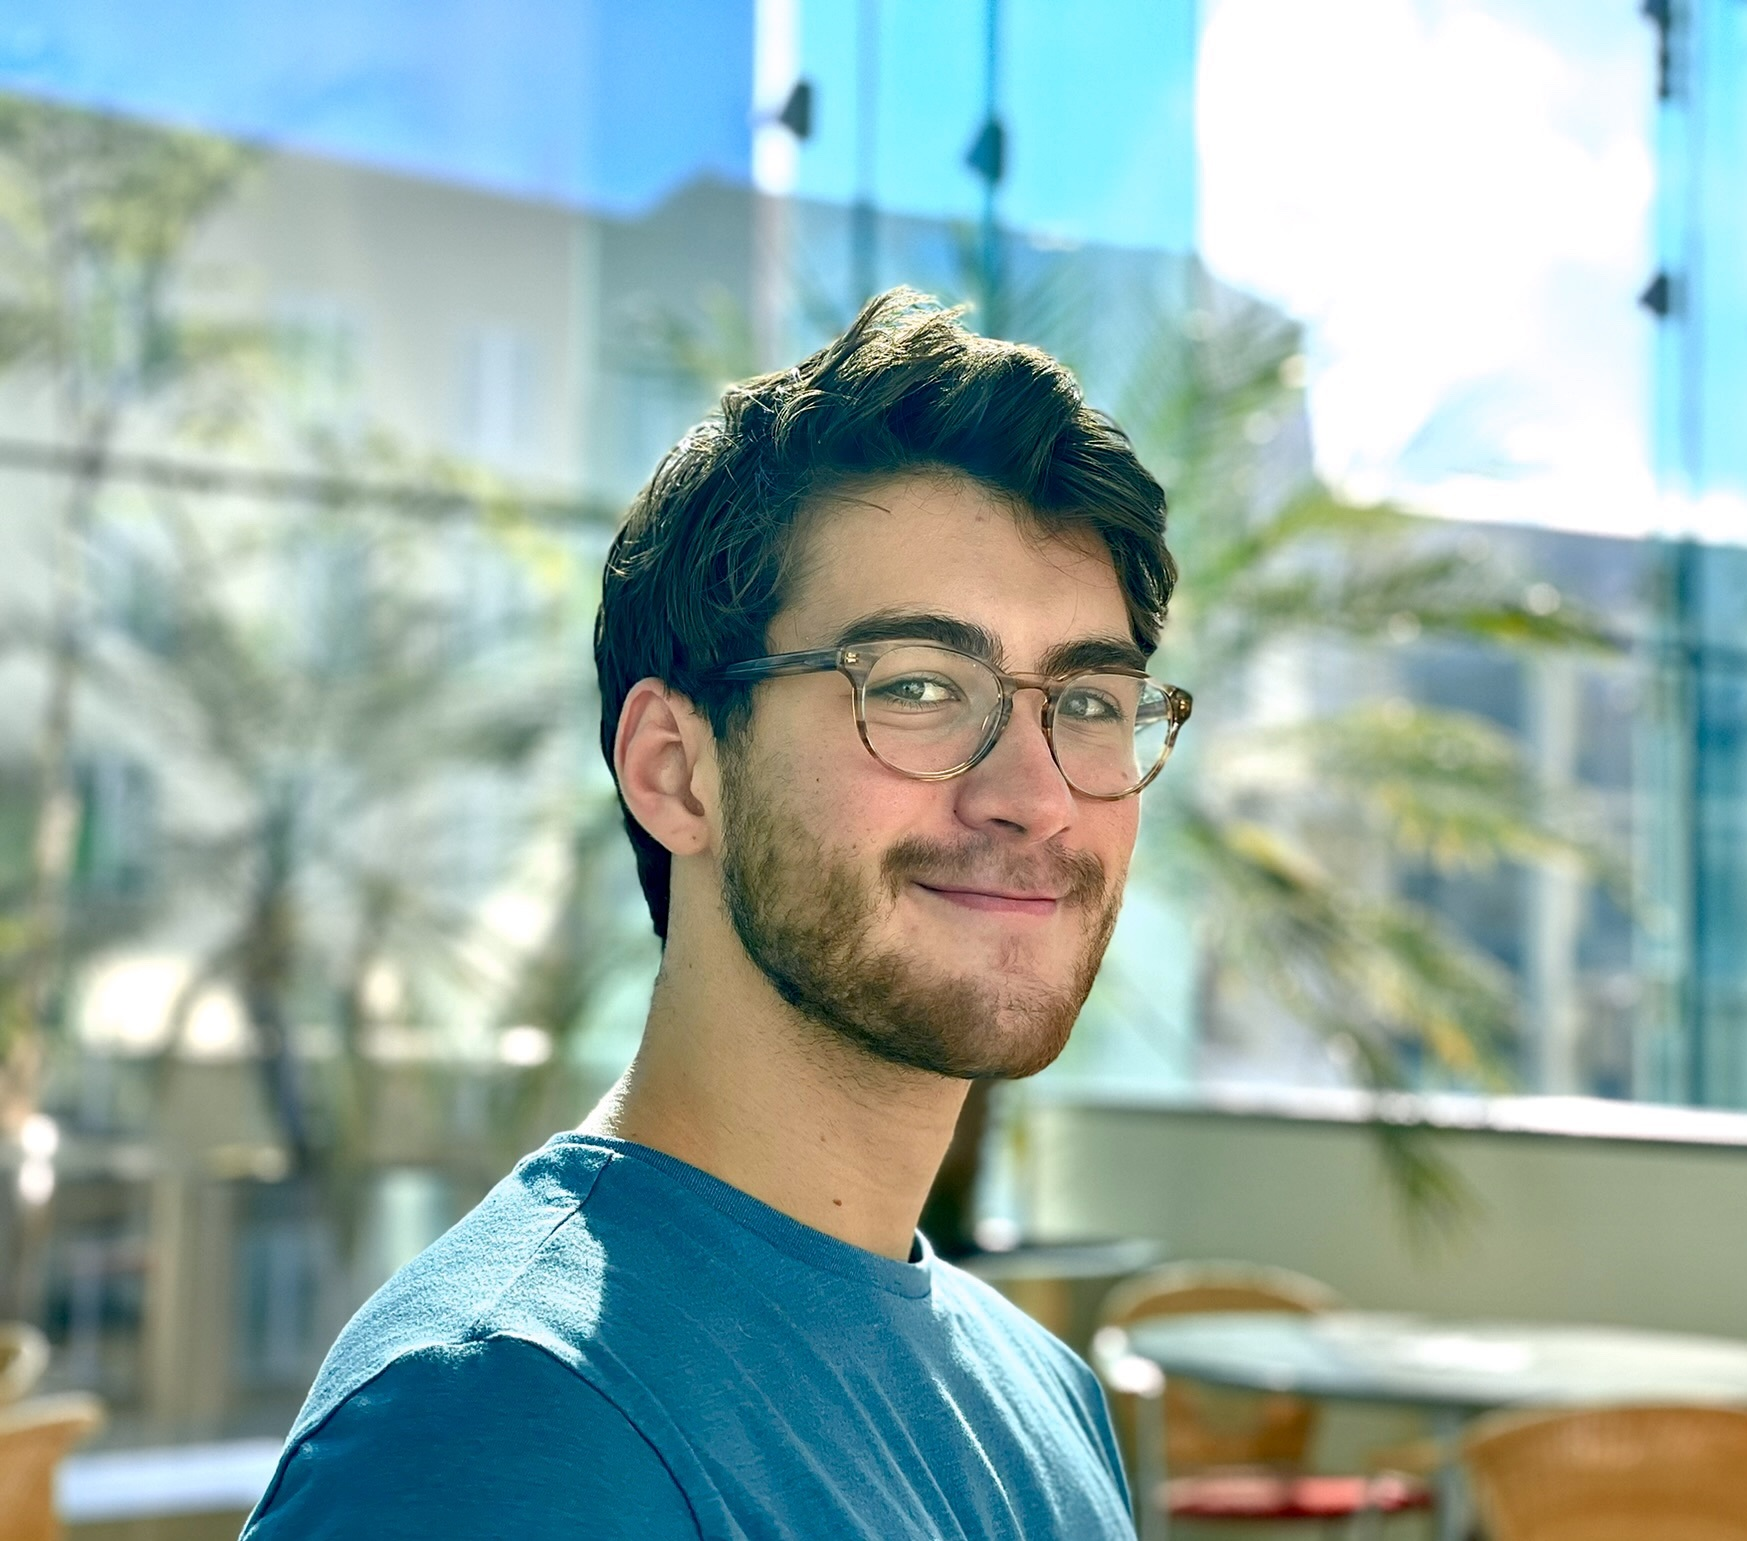
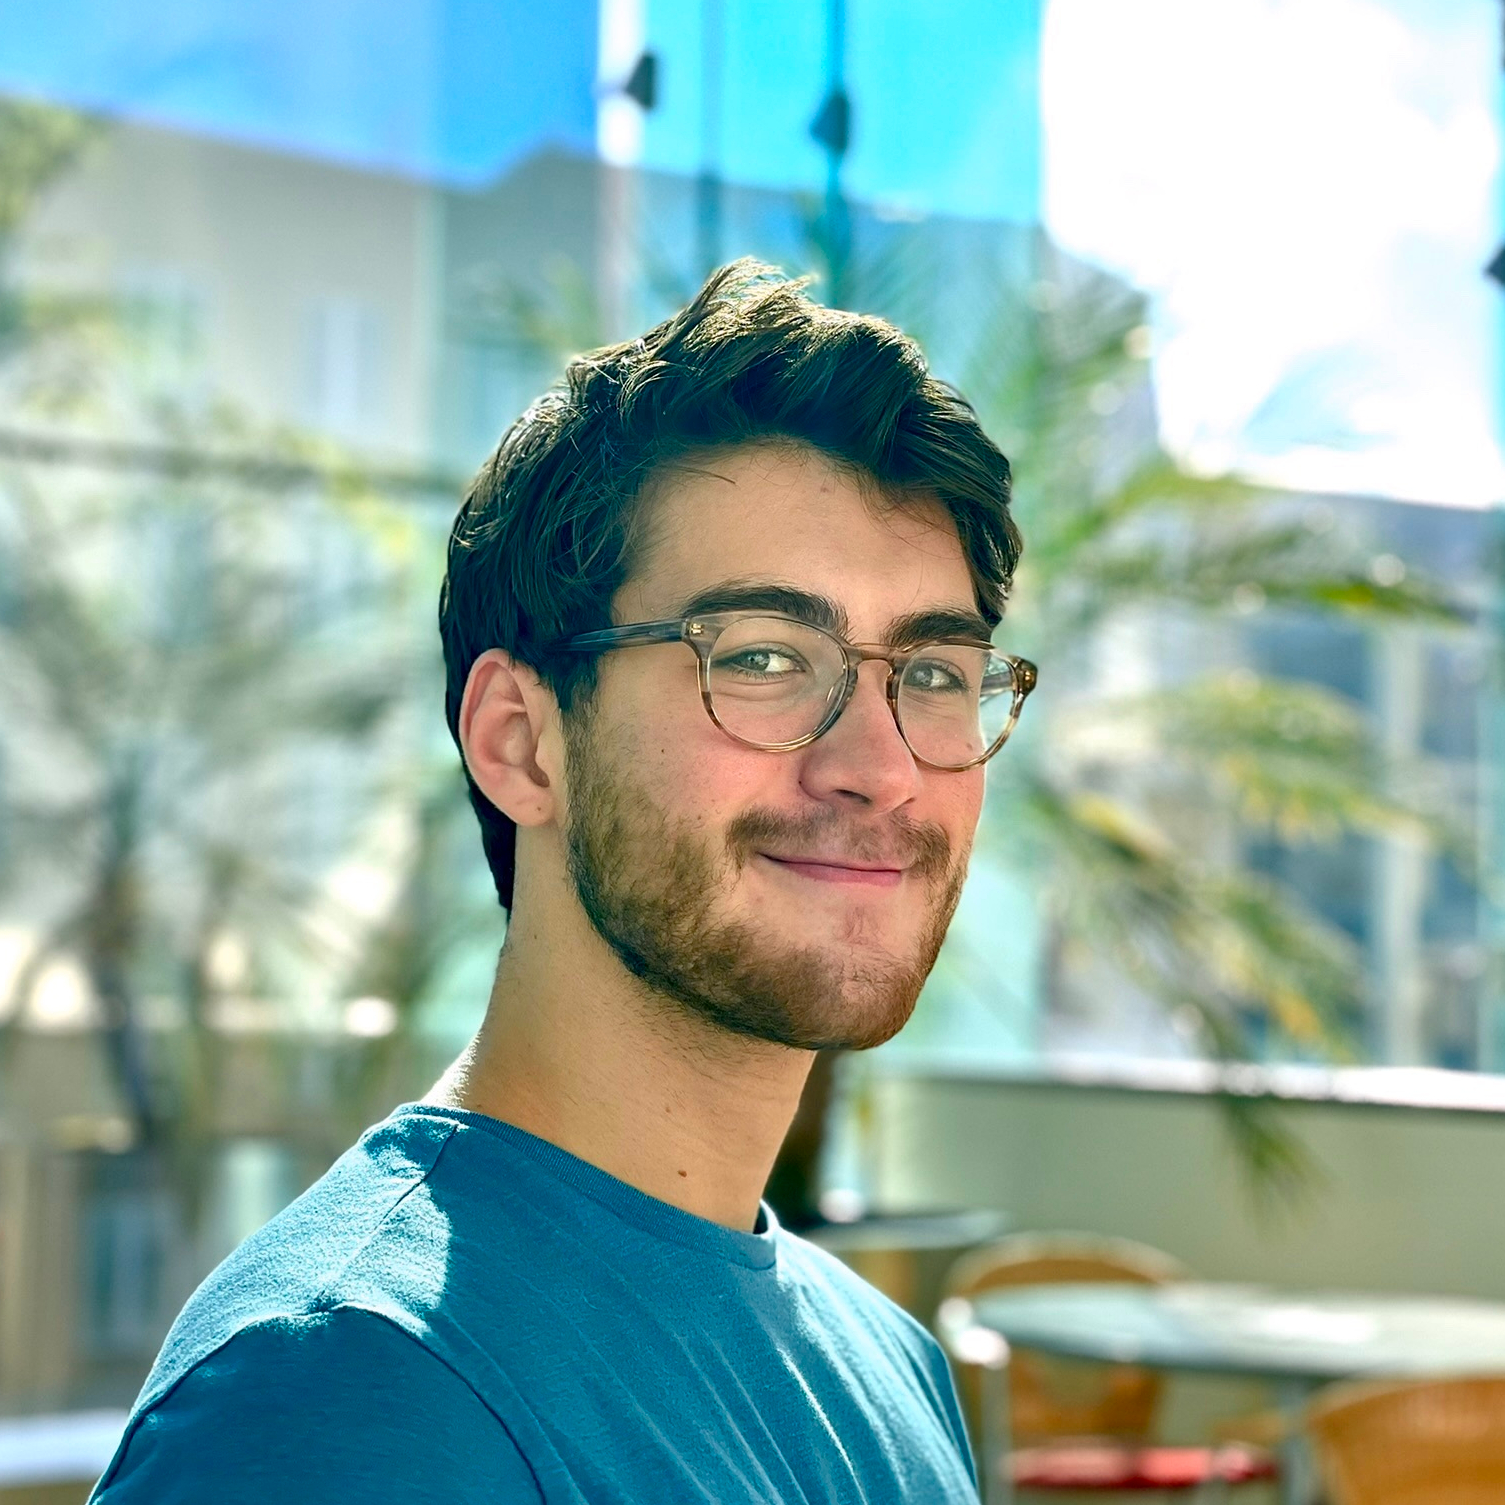
fixed exec weird shaped

diff --git a/src/components/executivemembers.tsx b/src/components/executivemembers.tsx
@@ -5,16 +5,18 @@ import * as Constants from './constants'
 function ExecutiveCard({ imageName, name, position, link } : {imageName: string, name: string, position: string, link: string}) {
   return (
     <a href={link} className="m-10 group rounded-full border border-transparent px-4 py-4 flex flex-col items-center w-[250px] h-[350px] ">
-      <div className="rounded-full overflow-hidden hover">
+
+      <div className="w-[150px] relative h-[150px] rounded-full overflow-hidden hover ">
         <Image
           alt="Executive"
           src={imageName}
-          width={150}
-          height={150}
           quality={100}
+          layout="fill"
+          objectFit="cover"
           className="grayscale group-hover:grayscale-0 group-active:scale-110 transition duration-500 ease-in-out"
           />
-      </div>
+
+        </div>
       <div className="mt-4 text-center">
         <h3 className="text-xxl font-semibold">{name}</h3>
         <p className="text-xl text-gray-500">{position}</p>
